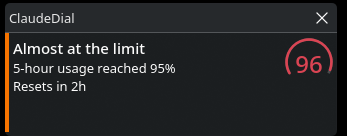
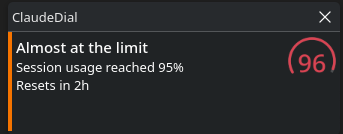
Redraw the README images so nothing is resampled by a fraction
The tray strip was 552 px shown at 368 - a 1.5x downscale, which is why small
digits looked mushy. Every image is now either 1:1 or exactly 2x its display
width:

  tray-styles     672x224  at 336   2x, regenerated from IconRenderer itself
  popup-dark      680x584  at 340   2x, captured with QT_SCALE_FACTOR=2
  popup-light     680x584  at 340   2x
  notification    343x134  at 343   1:1 (the banner is drawn by the panel)
  settings        384x436  at 381   1:1, unchanged - its content did not

The popups were stale as well as soft, since they still read "5-hour limit"
and "Resets Tue 11:27".

Notifications now say Session and Weekly too. Left as "5-hour"/"7-day" the
app would have named the same window two different ways depending on where
you read it. The banner image is retaken to match.

The --json sample in the README carried "resets Tue 06:00" for the seven-day
window. Corrected to "resets in 4d 9h", computed by running Format against
the sample's own timestamps rather than by hand.

Changed region(s): [[0.0, 0.0, 1.0, 1.0]]

diff --git a/src/tray/Notifier.cpp b/src/tray/Notifier.cpp
@@ -70,7 +70,9 @@ HintImage toHintImage(const QImage& source)
 
 QString windowName(core::PeriodKind kind)
 {
-    return kind == core::PeriodKind::FiveHour ? Notifier::tr("5-hour") : Notifier::tr("7-day");
+    // The same words the popup and Claude Code use, so a banner read on its own
+    // names the window the same way the app does.
+    return kind == core::PeriodKind::FiveHour ? Notifier::tr("Session") : Notifier::tr("Weekly");
 }
 
 } // namespace

diff --git a/README.md b/README.md
@@ -5,7 +5,7 @@
 A minimal Linux system tray indicator for Claude Code usage limits.
 Glance at the icon, hover for details, click for a small popup, forget about it.
 
-<img src="docs/images/tray-styles.png" alt="The tray icon at 8, 23, 75, 88, 99 and 100 percent, in both styles" width="368">
+<img src="docs/images/tray-styles.png" alt="The tray icon at 8, 23, 75, 88, 99 and 100 percent, in both styles" width="336">
 
 That is the tray icon at 8%, 23%, 75%, 88%, 99% and at the limit - the exact
 figure on top, the needle below. Same dial, two styles. Click it:
@@ -106,7 +106,7 @@ $ claudedial --json
     "updated_at": "2026-09-03T18:17:54Z",
     "stale": false,
     "text": "10%",
-    "tooltip": "ClaudeDial\n5h  10% · resets in 3h 12m\n7d  27% · resets Tue 06:00",
+    "tooltip": "ClaudeDial\n5h  10% · resets in 3h 12m\n7d  27% · resets in 4d 9h",
     "class": "normal"
 }
 ```
@@ -252,7 +252,7 @@ Why any of it looks the way it does, and what was tried and rejected:
 ## Notifications
 
 
-<img src="docs/images/notification.png" alt="A ClaudeDial notification" width="347">
+<img src="docs/images/notification.png" alt="A ClaudeDial notification" width="343">
 
 Once per window at 75%, 90%, 95% and 100%, reset when the window does - and not
 re-announced after a restart. The title says how bad it is, the first line says
